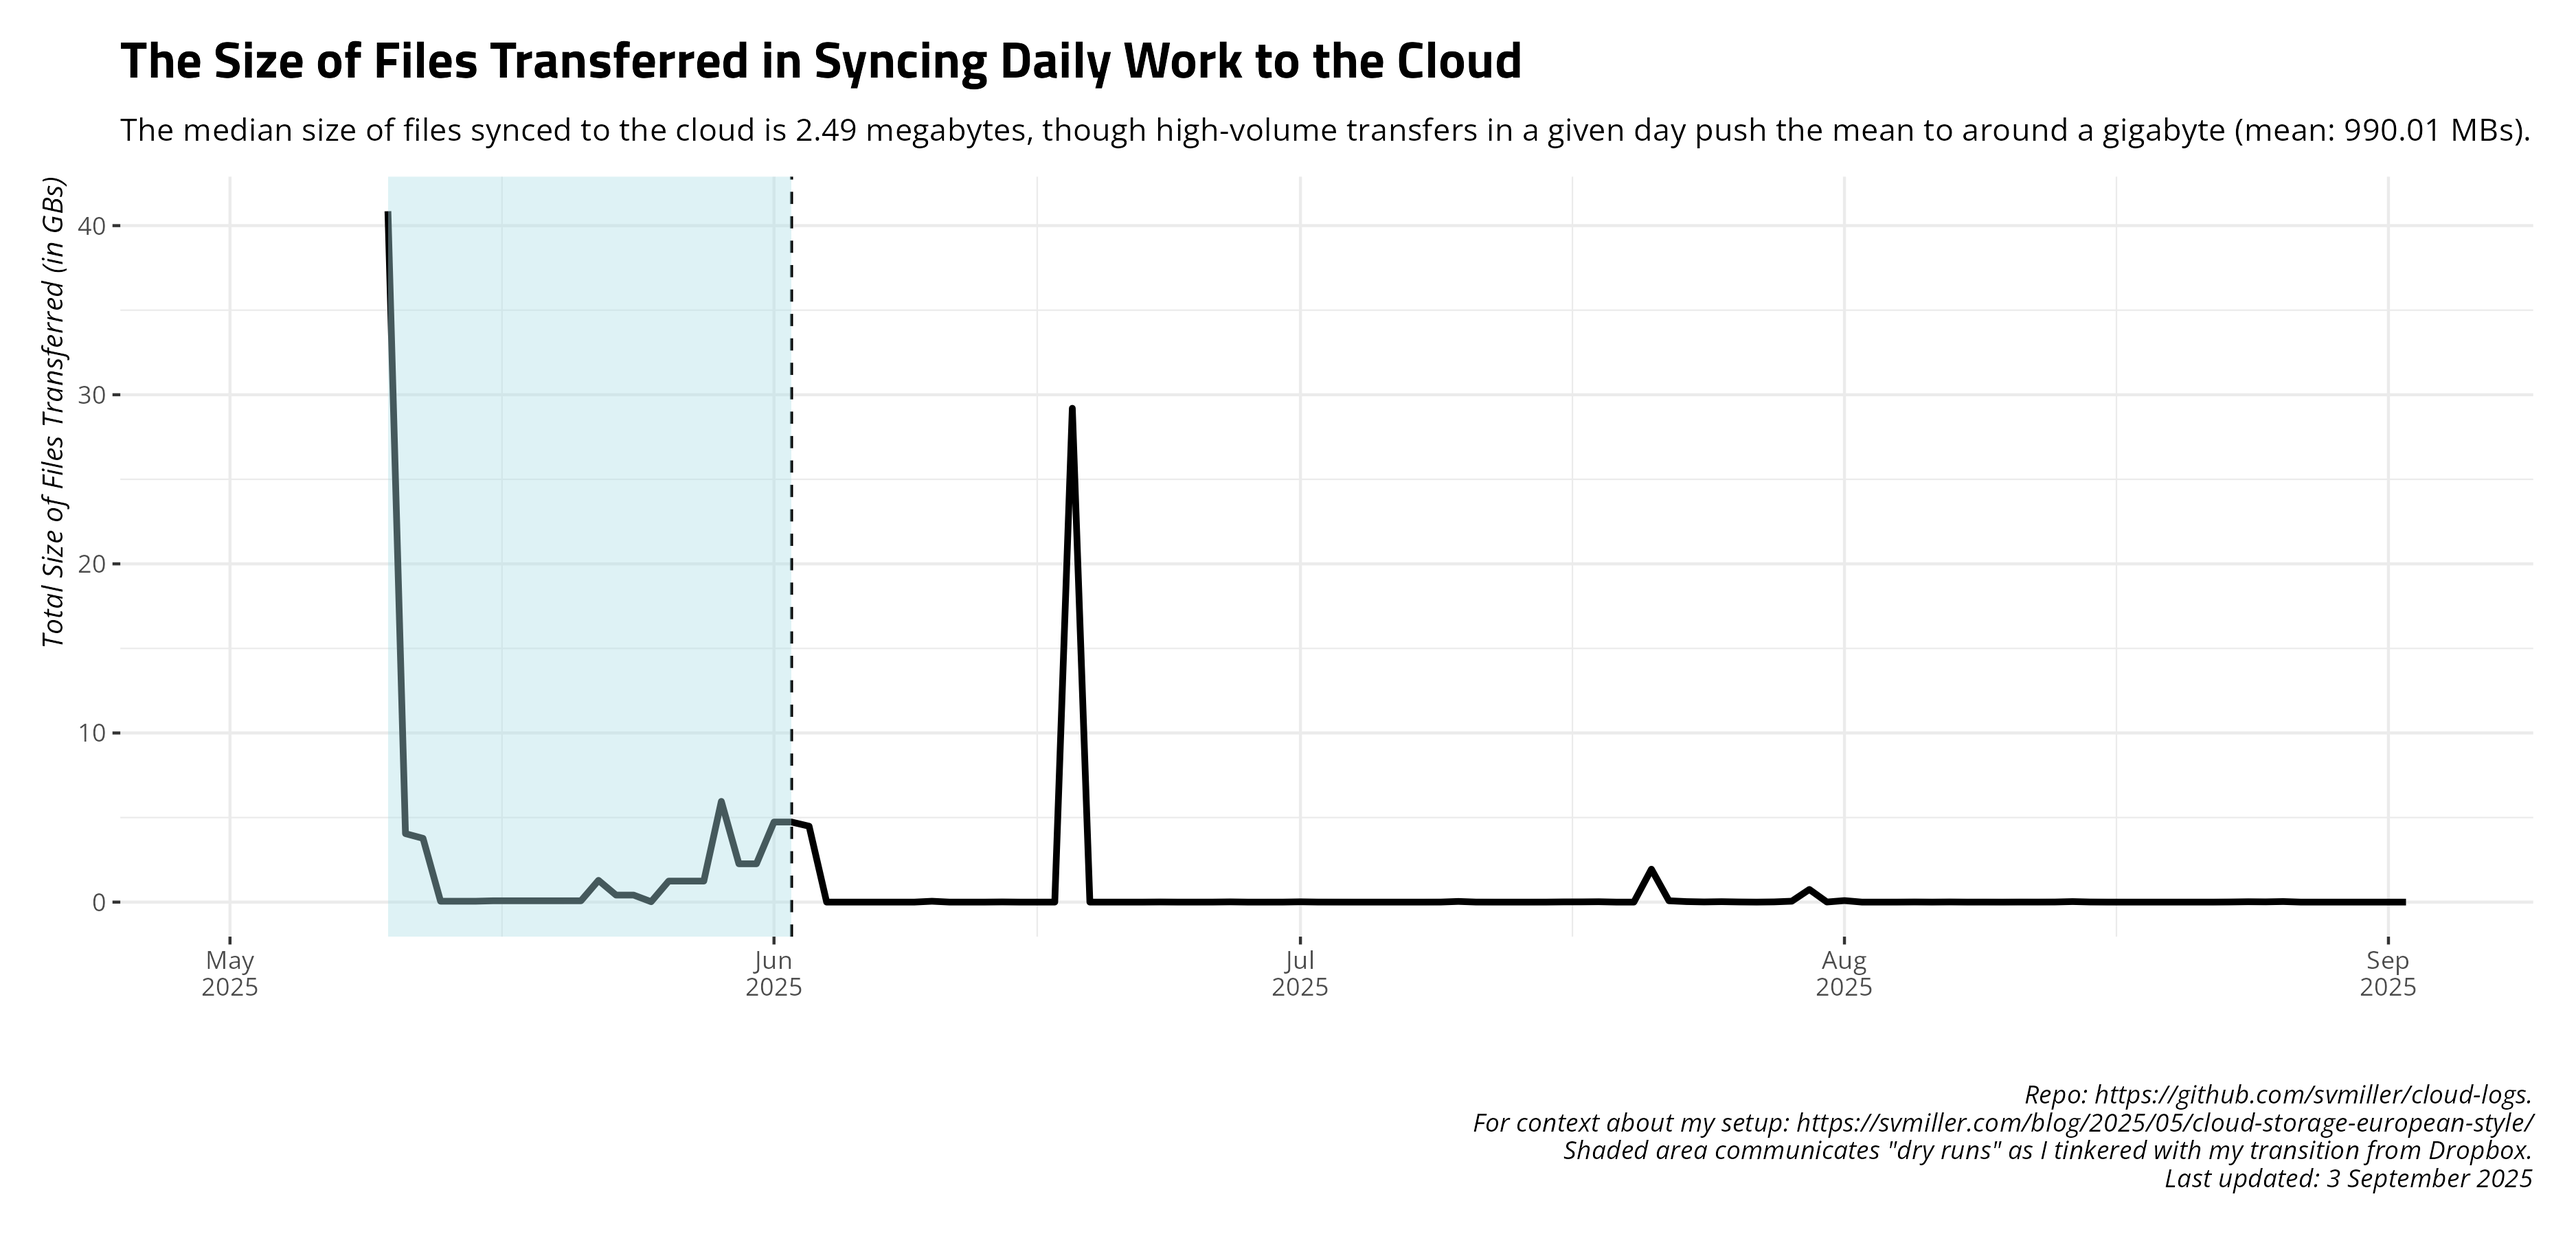
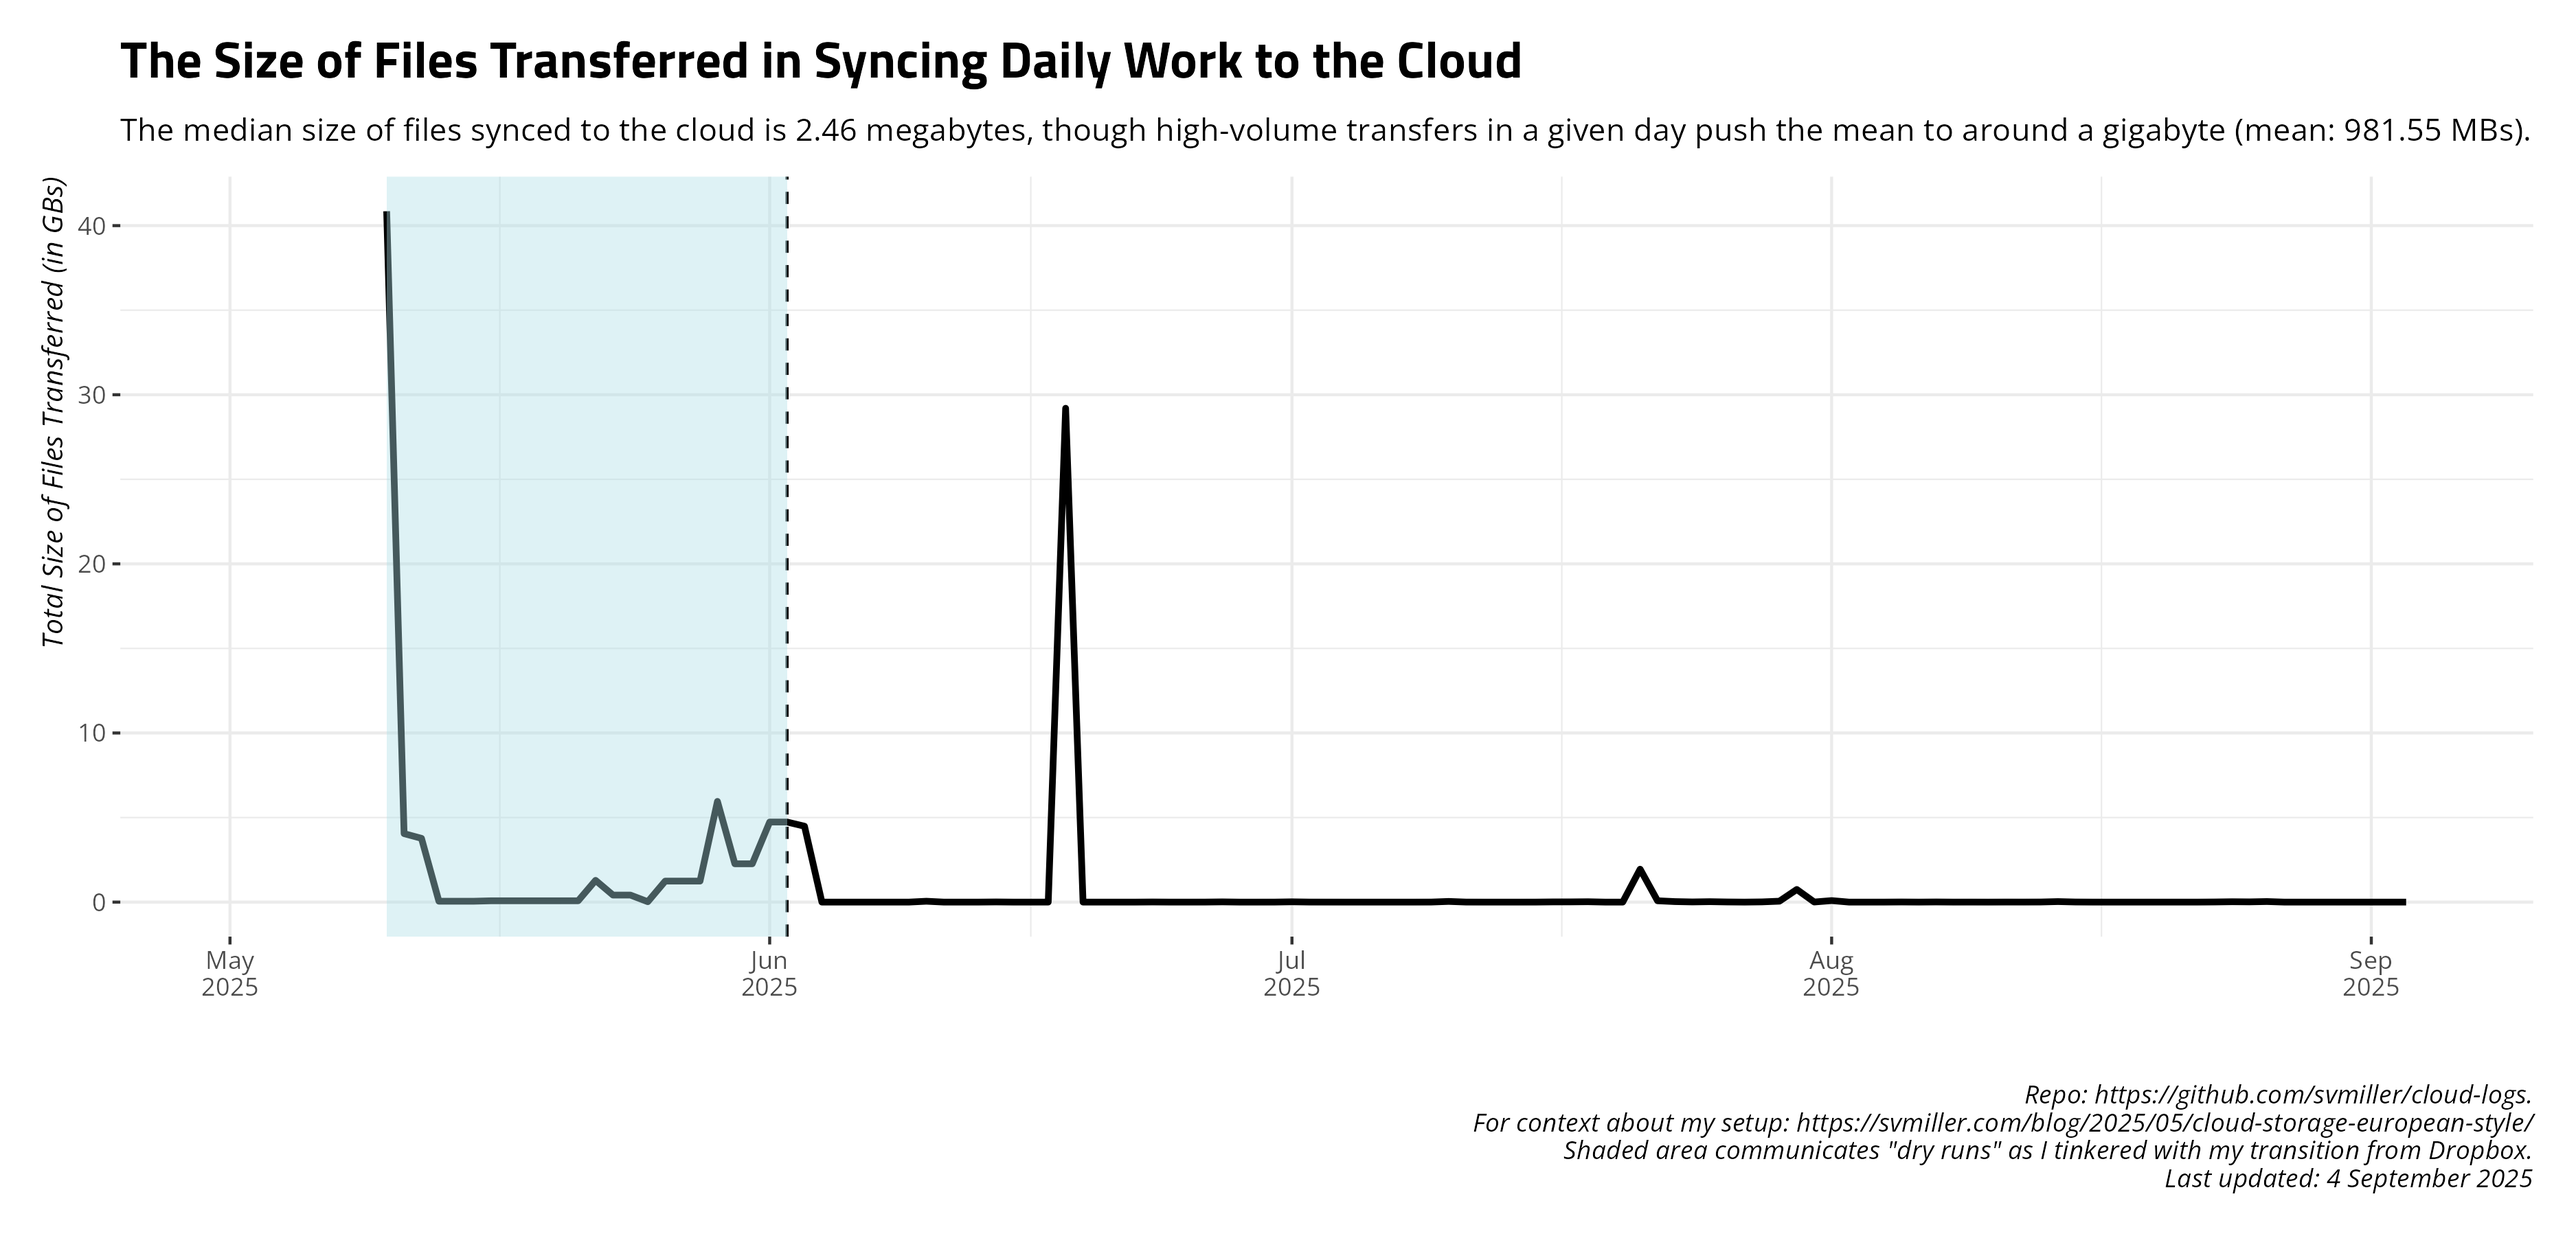
Date: 2025-09-04 09:00:13. Hi mom!

diff --git a/README.md b/README.md
@@ -27,17 +27,17 @@ and uploads to Github.
     #> # A tibble: 14 × 4
     #>    date       ftransfer stransfer   elapsed
     #>    <date>         <dbl> <chr>       <chr>  
-    #>  1 2025-08-20        22 371.275 KiB 4m2.9s 
-    #>  2 2025-08-21        75 611.527 KiB 4m52.6s
-    #>  3 2025-08-22        50 496.052 KiB 4m6.1s 
-    #>  4 2025-08-23       219 7.608 MiB   5m0.8s 
-    #>  5 2025-08-24        48 21.815 MiB  5m55.0s
-    #>  6 2025-08-25       466 14.057 MiB  4m15.5s
-    #>  7 2025-08-26       204 33.605 MiB  7m26.6s
-    #>  8 2025-08-27        54 224.264 KiB 4m15.3s
-    #>  9 2025-08-28        37 151.144 KiB 3m59.5s
-    #> 10 2025-08-29        24 103.784 KiB 4m55.0s
-    #> 11 2025-08-30         0 <NA>        5m16.9s
-    #> 12 2025-08-31         0 <NA>        5m16.9s
-    #> 13 2025-09-01         0 <NA>        5m21.1s
-    #> 14 2025-09-02        40 153.396 KiB 13m1.5s
+    #>  1 2025-08-21        75 611.527 KiB 4m52.6s
+    #>  2 2025-08-22        50 496.052 KiB 4m6.1s 
+    #>  3 2025-08-23       219 7.608 MiB   5m0.8s 
+    #>  4 2025-08-24        48 21.815 MiB  5m55.0s
+    #>  5 2025-08-25       466 14.057 MiB  4m15.5s
+    #>  6 2025-08-26       204 33.605 MiB  7m26.6s
+    #>  7 2025-08-27        54 224.264 KiB 4m15.3s
+    #>  8 2025-08-28        37 151.144 KiB 3m59.5s
+    #>  9 2025-08-29        24 103.784 KiB 4m55.0s
+    #> 10 2025-08-30         0 <NA>        5m16.9s
+    #> 11 2025-08-31         0 <NA>        5m16.9s
+    #> 12 2025-09-01         0 <NA>        5m21.1s
+    #> 13 2025-09-02        40 153.396 KiB 13m1.5s
+    #> 14 2025-09-03         8 196.474 KiB 5m6.5s
